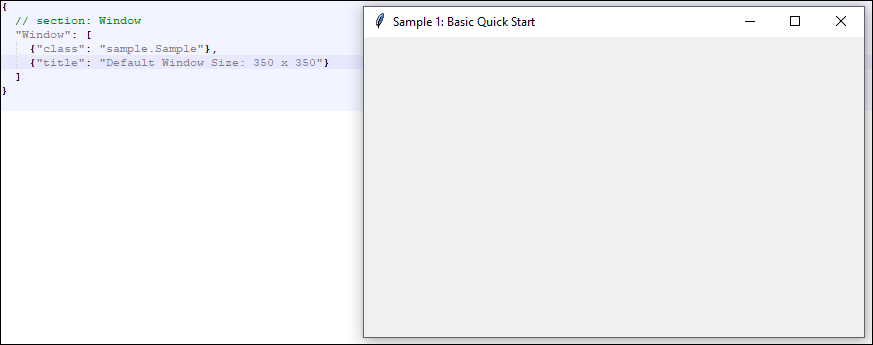
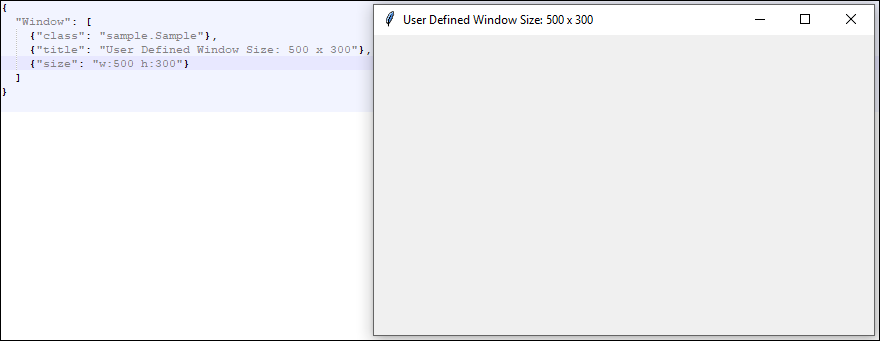
fix user defined window size image; readme edits

Changed region(s): [[0.0, 0.0, 1.0, 0.9971]]

diff --git a/testing/unit_tests/test_loader.py b/testing/unit_tests/test_loader.py
@@ -78,10 +78,10 @@ class TestLoader(unittest.TestCase):
         self.assertEqual(300, size['height'])
 
         # functional - shows window
-        # window = loader.window(cnf=size)
-        # window.master.title(loader.title)
-        #
-        # window.master.mainloop()
+        window = loader.window(cnf=size)
+        window.master.title(loader.title)
+
+        window.master.mainloop()
 
 
 if __name__ == '__main__':

diff --git a/quick_start/README.md b/quick_start/README.md
@@ -9,10 +9,10 @@ Executing from Bootstrap allows for more specialized configuration.
 
 ### Window Section
 
-If there is not setting in for the window size, PyLE provides a default window setting of 350x350:  
+If there is not a setting for the window size, PyLE provides a default window setting of 350x350:  
 ![default window size][def_win]
 
-...compared to setting a size parameter in the Window section  
+...compare to setting a size parameter in the Window section  
 ![user defined size][usr_win]
 
 
